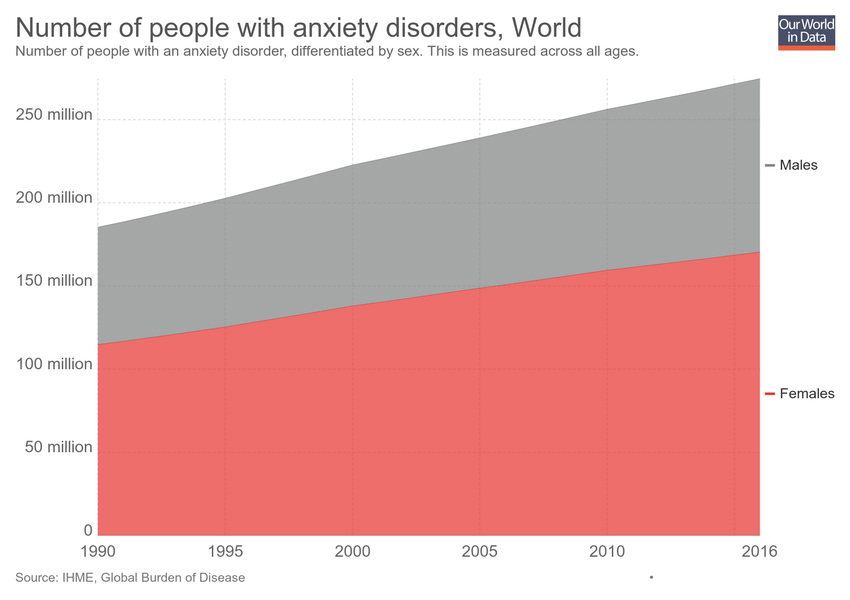
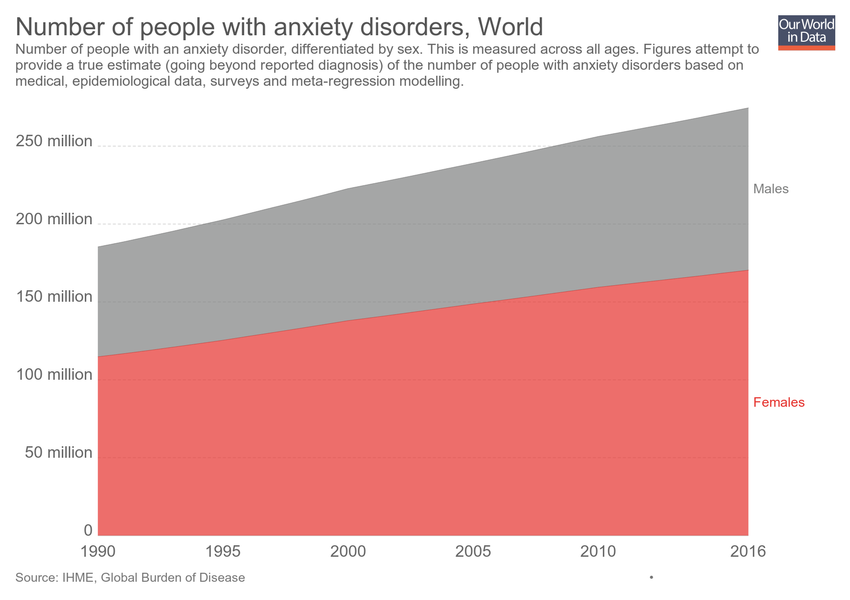
Updating chart number-with-anxiety-disorders

diff --git a/grapher/rate-of-internationally-observed-elections.html b/grapher/rate-of-internationally-observed-elections.html
@@ -1,4 +1,4 @@
-<!doctype html><html><head><meta name="viewport" content="width=device-width, initial-scale=1" /><title>Internationally observed elections (%) - Our World in Data</title><meta name="description" content="Percentage of internationally observed elections and whether they were criticized by international observers. Figures cover 1,754 election events in 157 independent states, excluding those with population less than 250,000." /><link rel="canonical" href="https://ourworldindata.org/grapher/rate-of-internationally-observed-elections" /><meta property="fb:app_id" content="1149943818390250" /><meta property="og:url" content="https://ourworldindata.org/grapher/rate-of-internationally-observed-elections" /><meta property="og:title" content="Internationally observed elections (%)" /><meta property="og:description" content="Percentage of internationally observed elections and whether they were criticized by international observers. Figures cover 1,754 election events in 157 independent states, excluding those with population less than 250,000." /><meta property="og:image" content="https://ourworldindata.org/grapher/exports/rate-of-internationally-observed-elections.png?v=16" /><meta property="og:image:width" content="850" /><meta property="og:image:height" content="600" /><meta property="og:site_name" content="Our World in Data" /><meta name="twitter:card" content="summary_large_image" /><meta name="twitter:site" content="@OurWorldInData" /><meta name="twitter:creator" content="@OurWorldInData" /><meta name="twitter:title" content="Internationally observed elections (%)" /><meta name="twitter:description" content="Percentage of internationally observed elections and whether they were criticized by international observers. Figures cover 1,754 election events in 157 independent states, excluding those with population less than 250,000." /><meta name="twitter:image" content="https://ourworldindata.org/grapher/exports/rate-of-internationally-observed-elections.png?v=16" /><style>
+<!doctype html><html><head><meta name="viewport" content="width=device-width, initial-scale=1" /><title>Internationally observed elections by Western monitors - Our World in Data</title><meta name="description" content="Estimates correspond to the number of international elections that were either observed and criticized by Western monitors, observed and not criticized by Western monitors, or elections that were not observed by Western monitors. Criticism refers to allegations of significant vote-fraud." /><link rel="canonical" href="https://ourworldindata.org/grapher/rate-of-internationally-observed-elections" /><meta property="fb:app_id" content="1149943818390250" /><meta property="og:url" content="https://ourworldindata.org/grapher/rate-of-internationally-observed-elections" /><meta property="og:title" content="Internationally observed elections by Western monitors" /><meta property="og:description" content="Estimates correspond to the number of international elections that were either observed and criticized by Western monitors, observed and not criticized by Western monitors, or elections that were not observed by Western monitors. Criticism refers to allegations of significant vote-fraud." /><meta property="og:image" content="https://ourworldindata.org/grapher/exports/rate-of-internationally-observed-elections.png?v=9" /><meta property="og:image:width" content="850" /><meta property="og:image:height" content="600" /><meta property="og:site_name" content="Our World in Data" /><meta name="twitter:card" content="summary_large_image" /><meta name="twitter:site" content="@OurWorldInData" /><meta name="twitter:creator" content="@OurWorldInData" /><meta name="twitter:title" content="Internationally observed elections by Western monitors" /><meta name="twitter:description" content="Estimates correspond to the number of international elections that were either observed and criticized by Western monitors, observed and not criticized by Western monitors, or elections that were not observed by Western monitors. Criticism refers to allegations of significant vote-fraud." /><meta name="twitter:image" content="https://ourworldindata.org/grapher/exports/rate-of-internationally-observed-elections.png?v=9" /><style>
         html, body {
             height: 100%;
             margin: 0;
@@ -20,8 +20,8 @@
         }
     </style><noscript><style>
                     figure { display: none !important; }
-                </style></noscript><link rel="stylesheet" href="https://ourworldindata.org/grapher/assets/commons.bundle.ac09ff8f098f0c7be836.css" /><link rel="preload" href="/grapher/data/variables/97378+97379.json?v=16" as="fetch" crossorigin /></head><body class="singleChart"><figure data-grapher-src="/grapher/rate-of-internationally-observed-elections"></figure><noscript id="fallback"><img src="/grapher/exports/rate-of-internationally-observed-elections.svg" /><p>Interactive visualization requires JavaScript</p></noscript><script src="https://cdn.polyfill.io/v2/polyfill.min.js?features=es6,fetch"></script><script src="https://ourworldindata.org/grapher/assets/commons.bundle.ac09ff8f098f0c7be836.js"></script><script src="https://ourworldindata.org/grapher/assets/charts.bundle.dcf65b68eddaba4c6a58.js"></script><script>
-        var jsonConfig = {"id":2589,"map":{"projection":"World","colorSchemeLabels":[],"colorSchemeValues":[],"colorSchemeMinValue":0,"customNumericColors":[],"customCategoryColors":{},"customCategoryLabels":{},"customHiddenCategories":{}},"tab":"chart","slug":"rate-of-internationally-observed-elections","type":"StackedArea","title":"Internationally observed elections (%)","xAxis":{"scaleType":"linear"},"yAxis":{"max":80,"min":0,"scaleType":"linear"},"version":16,"subtitle":"Percentage of internationally observed elections and whether they were criticized by international observers. Figures cover 1,754 election events in 157 independent states, excluding those with population less than 250,000.","hasMapTab":false,"stackMode":"absolute","dimensions":[{"display":{"name":"Percent of elections observed and criticised","unit":"%"},"property":"y","variableId":97378},{"display":{"name":"Percent of elections observed and not criticised"},"property":"y","variableId":97379}],"hasChartTab":true,"isPublished":true,"selectedData":[{"index":0,"entityId":355},{"index":1,"entityId":355}],"addCountryMode":"change-country","baseColorScheme":"Plasma","hideRelativeToggle":true,"hideTitleAnnotation":true};
+                </style></noscript><link rel="stylesheet" href="https://ourworldindata.org/grapher/assets/commons.bundle.ac09ff8f098f0c7be836.css" /><link rel="preload" href="/grapher/data/variables/97399+97400+97401.json?v=9" as="fetch" crossorigin /></head><body class="singleChart"><figure data-grapher-src="/grapher/rate-of-internationally-observed-elections"></figure><noscript id="fallback"><img src="/grapher/exports/rate-of-internationally-observed-elections.svg" /><p>Interactive visualization requires JavaScript</p></noscript><script src="https://cdn.polyfill.io/v2/polyfill.min.js?features=es6,fetch"></script><script src="https://ourworldindata.org/grapher/assets/commons.bundle.ac09ff8f098f0c7be836.js"></script><script src="https://ourworldindata.org/grapher/assets/charts.bundle.dcf65b68eddaba4c6a58.js"></script><script>
+        var jsonConfig = {"id":2598,"map":{"projection":"World","colorSchemeLabels":[],"colorSchemeValues":[],"customNumericColors":[],"customCategoryColors":{},"customCategoryLabels":{},"customHiddenCategories":{}},"tab":"chart","note":"Includes 2435 election events in 162 countries","slug":"rate-of-internationally-observed-elections","type":"StackedArea","title":"Internationally observed elections by Western monitors","xAxis":{"scaleType":"linear"},"yAxis":{"min":0,"scaleType":"linear"},"version":9,"subtitle":"Estimates correspond to the number of international elections that were either observed and criticized by Western monitors, observed and not criticized by Western monitors, or elections that were not observed by Western monitors. Criticism refers to allegations of significant vote-fraud.","hasMapTab":false,"stackMode":"relative","dimensions":[{"display":{"name":"Elections not observed","unit":"elections","shortUnit":""},"property":"y","variableId":97399},{"display":{"name":"Elections observed and criticized"},"property":"y","variableId":97400},{"display":{"name":"Elections observed and not critcized"},"property":"y","variableId":97401}],"hasChartTab":true,"isPublished":true,"selectedData":[{"index":0,"entityId":355},{"index":2,"entityId":355},{"index":1,"entityId":355}],"addCountryMode":"change-country","baseColorScheme":"owid-distinct","invertColorScheme":true,"hideTitleAnnotation":true};
         var figure = document.getElementsByTagName("figure")[0];
         try {
             window.App = {};

diff --git a/grapher/number-with-anxiety-disorders-country.html b/grapher/number-with-anxiety-disorders-country.html
@@ -1,4 +1,4 @@
-<!doctype html><html><head><meta name="viewport" content="width=device-width, initial-scale=1" /><title>Number of people with anxiety disorders - Our World in Data</title><meta name="description" content="Total number of people with an anxiety disorder, measured across all ages and both sexes." /><link rel="canonical" href="https://ourworldindata.org/grapher/number-with-anxiety-disorders-country" /><meta property="fb:app_id" content="1149943818390250" /><meta property="og:url" content="https://ourworldindata.org/grapher/number-with-anxiety-disorders-country" /><meta property="og:title" content="Number of people with anxiety disorders" /><meta property="og:description" content="Total number of people with an anxiety disorder, measured across all ages and both sexes." /><meta property="og:image" content="https://ourworldindata.org/grapher/exports/number-with-anxiety-disorders-country.png?v=2" /><meta property="og:image:width" content="850" /><meta property="og:image:height" content="600" /><meta property="og:site_name" content="Our World in Data" /><meta name="twitter:card" content="summary_large_image" /><meta name="twitter:site" content="@OurWorldInData" /><meta name="twitter:creator" content="@OurWorldInData" /><meta name="twitter:title" content="Number of people with anxiety disorders" /><meta name="twitter:description" content="Total number of people with an anxiety disorder, measured across all ages and both sexes." /><meta name="twitter:image" content="https://ourworldindata.org/grapher/exports/number-with-anxiety-disorders-country.png?v=2" /><style>
+<!doctype html><html><head><meta name="viewport" content="width=device-width, initial-scale=1" /><title>Number of people with anxiety disorders - Our World in Data</title><meta name="description" content="Total number of people with an anxiety disorder, measured across all ages and both sexes. Figures attempt to provide a true estimate (going beyond reported diagnosis) of the number of people with anxiety disorders based on medical, epidemiological data, surveys and meta-regression modelling." /><link rel="canonical" href="https://ourworldindata.org/grapher/number-with-anxiety-disorders-country" /><meta property="fb:app_id" content="1149943818390250" /><meta property="og:url" content="https://ourworldindata.org/grapher/number-with-anxiety-disorders-country" /><meta property="og:title" content="Number of people with anxiety disorders" /><meta property="og:description" content="Total number of people with an anxiety disorder, measured across all ages and both sexes. Figures attempt to provide a true estimate (going beyond reported diagnosis) of the number of people with anxiety disorders based on medical, epidemiological data, surveys and meta-regression modelling." /><meta property="og:image" content="https://ourworldindata.org/grapher/exports/number-with-anxiety-disorders-country.png?v=3" /><meta property="og:image:width" content="850" /><meta property="og:image:height" content="600" /><meta property="og:site_name" content="Our World in Data" /><meta name="twitter:card" content="summary_large_image" /><meta name="twitter:site" content="@OurWorldInData" /><meta name="twitter:creator" content="@OurWorldInData" /><meta name="twitter:title" content="Number of people with anxiety disorders" /><meta name="twitter:description" content="Total number of people with an anxiety disorder, measured across all ages and both sexes. Figures attempt to provide a true estimate (going beyond reported diagnosis) of the number of people with anxiety disorders based on medical, epidemiological data, surveys and meta-regression modelling." /><meta name="twitter:image" content="https://ourworldindata.org/grapher/exports/number-with-anxiety-disorders-country.png?v=3" /><style>
         html, body {
             height: 100%;
             margin: 0;
@@ -20,8 +20,8 @@
         }
     </style><noscript><style>
                     figure { display: none !important; }
-                </style></noscript><link rel="stylesheet" href="https://ourworldindata.org/grapher/assets/commons.bundle.ac09ff8f098f0c7be836.css" /><link rel="preload" href="/grapher/data/variables/84677.json?v=2" as="fetch" crossorigin /></head><body class="singleChart"><figure data-grapher-src="/grapher/number-with-anxiety-disorders-country"></figure><noscript id="fallback"><img src="/grapher/exports/number-with-anxiety-disorders-country.svg" /><p>Interactive visualization requires JavaScript</p></noscript><script src="https://cdn.polyfill.io/v2/polyfill.min.js?features=es6,fetch"></script><script src="https://ourworldindata.org/grapher/assets/commons.bundle.ac09ff8f098f0c7be836.js"></script><script src="https://ourworldindata.org/grapher/assets/charts.bundle.dcf65b68eddaba4c6a58.js"></script><script>
-        var jsonConfig = {"id":2163,"map":{"projection":"World","targetYear":2016,"variableId":84677,"equalSizeBins":true,"baseColorScheme":"GnBu","isManualBuckets":true,"colorSchemeLabels":[],"colorSchemeValues":[500000,1000000,5000000,10000000,20000000,40000000],"defaultProjection":"World","colorSchemeMinValue":0,"customNumericColors":[],"customCategoryColors":{},"customCategoryLabels":{},"customHiddenCategories":{}},"tab":"map","slug":"number-with-anxiety-disorders-country","type":"LineChart","title":"Number of people with anxiety disorders","xAxis":{"scaleType":"linear"},"yAxis":{"min":0,"scaleType":"linear"},"version":2,"subtitle":"Total number of people with an anxiety disorder, measured across all ages and both sexes.","hasMapTab":true,"stackMode":"absolute","dimensions":[{"display":{"unit":"people"},"property":"y","variableId":84677}],"sourceDesc":"IHME, Global Burden of Disease","hasChartTab":true,"isPublished":true,"selectedData":[{"index":0,"entityId":70},{"index":0,"entityId":15},{"index":0,"entityId":167},{"index":0,"entityId":4},{"index":0,"entityId":102},{"index":0,"entityId":44},{"index":0,"entityId":8},{"index":0,"entityId":149}],"addCountryMode":"add-country"};
+                </style></noscript><link rel="stylesheet" href="https://ourworldindata.org/grapher/assets/commons.bundle.ac09ff8f098f0c7be836.css" /><link rel="preload" href="/grapher/data/variables/84677.json?v=3" as="fetch" crossorigin /></head><body class="singleChart"><figure data-grapher-src="/grapher/number-with-anxiety-disorders-country"></figure><noscript id="fallback"><img src="/grapher/exports/number-with-anxiety-disorders-country.svg" /><p>Interactive visualization requires JavaScript</p></noscript><script src="https://cdn.polyfill.io/v2/polyfill.min.js?features=es6,fetch"></script><script src="https://ourworldindata.org/grapher/assets/commons.bundle.ac09ff8f098f0c7be836.js"></script><script src="https://ourworldindata.org/grapher/assets/charts.bundle.dcf65b68eddaba4c6a58.js"></script><script>
+        var jsonConfig = {"id":2163,"map":{"projection":"World","targetYear":2016,"variableId":84677,"equalSizeBins":true,"baseColorScheme":"GnBu","isManualBuckets":true,"colorSchemeLabels":[],"colorSchemeValues":[500000,1000000,5000000,10000000,20000000,40000000],"colorSchemeMinValue":0,"customNumericColors":[],"customCategoryColors":{},"customCategoryLabels":{},"customHiddenCategories":{}},"tab":"map","slug":"number-with-anxiety-disorders-country","type":"LineChart","title":"Number of people with anxiety disorders","xAxis":{"scaleType":"linear"},"yAxis":{"min":0,"scaleType":"linear"},"version":3,"subtitle":"Total number of people with an anxiety disorder, measured across all ages and both sexes. Figures attempt to provide a true estimate (going beyond reported diagnosis) of the number of people with anxiety disorders based on medical, epidemiological data, surveys and meta-regression modelling.","hasMapTab":true,"stackMode":"absolute","dimensions":[{"display":{"unit":"people"},"property":"y","variableId":84677}],"sourceDesc":"IHME, Global Burden of Disease","hasChartTab":true,"isPublished":true,"selectedData":[{"index":0,"entityId":70},{"index":0,"entityId":15},{"index":0,"entityId":167},{"index":0,"entityId":4},{"index":0,"entityId":102},{"index":0,"entityId":44},{"index":0,"entityId":8},{"index":0,"entityId":149}],"addCountryMode":"add-country"};
         var figure = document.getElementsByTagName("figure")[0];
         try {
             window.App = {};
